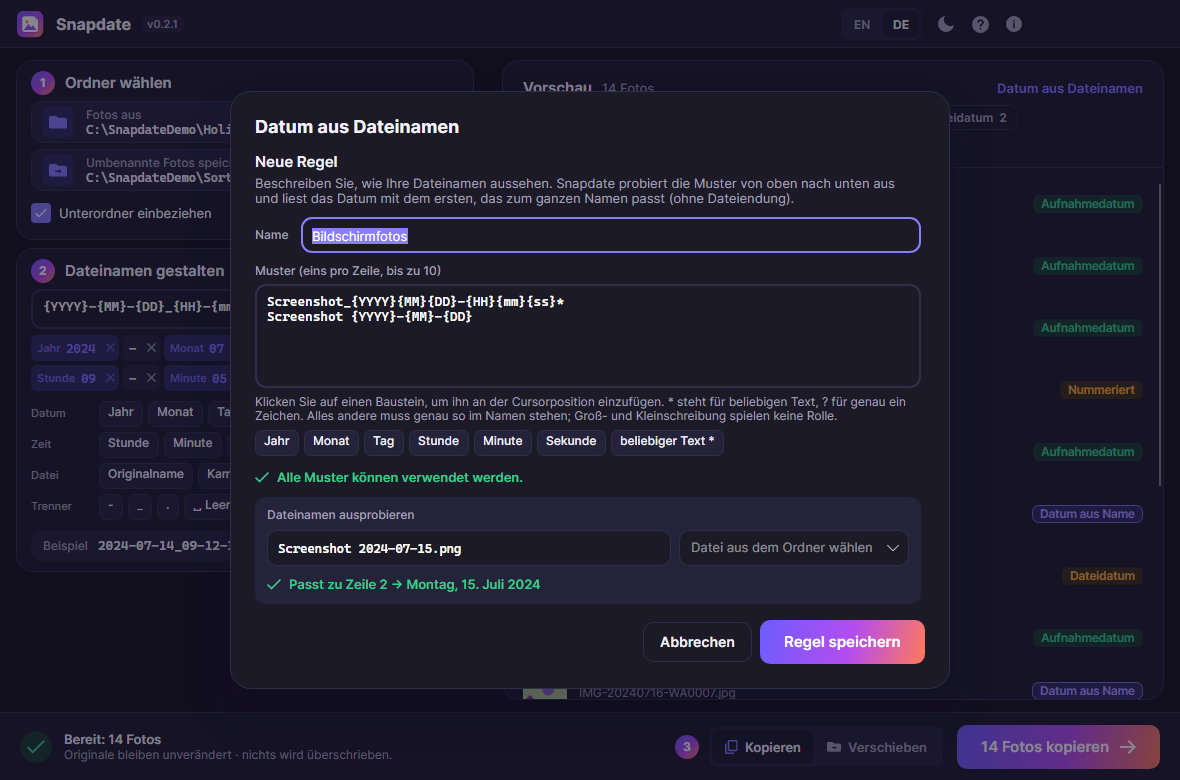
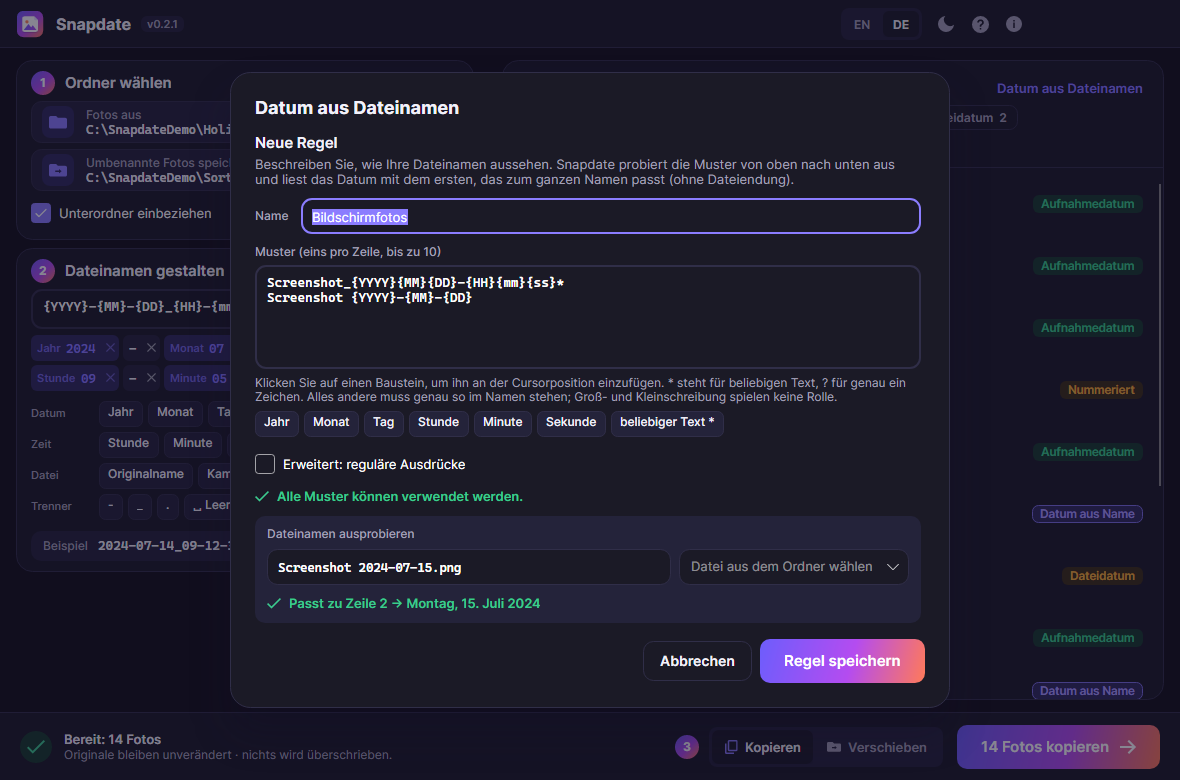
docs(rules): document the regular-expression mode and add its screenshot
ADR 0007 now describes the implemented checks (order, error kinds, yy
allowed, group dependencies, ASCII digits) instead of "kept but
inactive". security.md gets a short note on file-name rules, DESIGN.md
5.8 the editor's check box, CHANGELOG the user-facing entry. The rule
editor screenshots (18) are regenerated and a regex-mode screenshot
(19-date-rule-regex, EN/DE, light/dark) is added for the user guides.

Refs #21

diff --git a/tools/Snapdate.AssetGen/ScreenshotRenderer.cs b/tools/Snapdate.AssetGen/ScreenshotRenderer.cs
@@ -219,6 +219,19 @@ internal static class ScreenshotRenderer
                         editor.Name = folder == "de" ? "Bildschirmfotos" : "Screenshots";
                         editor.PatternsText = "Screenshot_{YYYY}{MM}{DD}-{HH}{mm}{ss}*" + Environment.NewLine + "Screenshot {YYYY}-{MM}-{DD}";
                     });
+                    Shoot(dir, $"19-date-rule-regex-{suffix}", ci, thumbnails, vm =>
+                    {
+                        // The same rule in "Advanced: regular expressions" mode: one expression for both name styles.
+                        ArrangePreview(vm);
+                        vm.OpenDateRulesCommand.Execute(null);
+                        var rules = vm.RulesDialog!;
+                        rules.SelectedSample = rules.SampleNames.First(n => n.StartsWith("Screenshot", StringComparison.Ordinal));
+                        rules.AddRuleCommand.Execute(null);
+                        var editor = rules.Editor!;
+                        editor.Name = folder == "de" ? "Bildschirmfotos" : "Screenshots";
+                        editor.IsRegex = true;
+                        editor.PatternsText = @"Screenshot[ _](?<year>\d{4})-?(?<month>\d{2})-?(?<day>\d{2}).*";
+                    });
                 }
 
                 Avalonia.Application.Current!.RequestedThemeVariant = ThemeVariant.Light;

diff --git a/docs/adr/0007-dates-from-file-names.md b/docs/adr/0007-dates-from-file-names.md
@@ -58,8 +58,9 @@ placeholders the user already knows from the file-name builder, for example
   must appear together (neither `{HH}` without `{mm}` nor `{mm}` without
   `{HH}`; error kinds `HourWithoutMinute`, `MinuteWithoutHour`); seconds
   require minutes (`SecondWithoutMinute`); ambiguous neighbours
-  (`AmbiguousNeighbours`, see below); an expression that fails to build
-  (`InvalidExpression`, used by regex mode, see below). A rule with one
+  (`AmbiguousNeighbours`, see below). Regex mode adds `InvalidSyntax`,
+  `UnsupportedConstruct`, `RepetitionTooLarge`, `UnknownGroup` and the
+  fallback `InvalidExpression` (see below). A rule with one
   invalid pattern still uses its valid ones.
 - **Ambiguity rule (runs).** A run is a maximal sequence of placeholders, `?`
   and literal digits 0–9 (it ends at any other literal character, at `*`, and
@@ -96,18 +97,36 @@ placeholders the user already knows from the file-name builder, for example
   current year (whole years are compared, not full dates).
 
 **Advanced mode: regular expression.** A rule can set `"syntax": "regex"`
-instead of the default `"pattern"`. The user's expression is wrapped as
-`^(?:…)$`, limited to 300 characters, compiled with the same options, and
-must use the named groups `year`, `month`, `day` (required) and `hour`,
-`minute`, `second` (optional); no other group names. Counted repetition is
-capped (`{n}` / `{n,m}` with n, m ≤ 100). **Any failure while building the
-regex** — constructs that `NonBacktracking` does not support
-(backreferences, lookarounds, atomic groups; `NotSupportedException`), syntax
-errors (`ArgumentException`), a too-large repetition or anything else — becomes
-a plain-language validation error (`InvalidExpression`), never a crash. The 50 ms timeout applies to
-matching, as for patterns. Group values go through the
-same ASCII-digit, calendar and plausibility checks. Implemented in #21 in the
-same release (v0.3.0); until then such rules are kept but inactive.
+instead of the default `"pattern"` (in the editor: the "Advanced: regular
+expressions" check box, off by default; switching keeps the text and checks it
+again). Each line is one expression (`DateExpression`), checked in this order:
+1. Not empty, at most **300 characters**, no control characters (a line break
+   could end a `(?x)` comment inside the wrapper).
+2. **Counted repetition capped:** every `{n}`, `{n,}`, `{n,m}` with n, m ≤ 100
+   (`RepetitionTooLarge`). Escaped characters are skipped; braces anywhere else
+   (also in character classes) are checked, which may reject a harmless literal
+   but never misses a quantifier.
+3. **Compiled on its own** with the same options as patterns
+   (`NonBacktracking | IgnoreCase | CultureInvariant | ExplicitCapture`, 50 ms
+   match timeout), so it must be complete and cannot close the wrapper from
+   inside (`a)|(?:b` is rejected). `RegexParseException` → `InvalidSyntax` with
+   the position; `NotSupportedException` — constructs `NonBacktracking` cannot
+   run (backreferences, lookarounds, atomic groups, conditionals, `\G`,
+   balancing groups) or an automaton above the engine's size limit (e.g. nested
+   repetitions such as `((a{100}){100}){100}`) → `UnsupportedConstruct`; any
+   other exception → `InvalidExpression`. Never a crash.
+4. **Wrapped as `^(?:…)$`** and compiled again; this is the regex that runs.
+5. **Group names:** only `year`, `yy` (two-digit year, same 19YY/20YY pivot as
+   `{YY}`), `month`, `day`, `hour`, `minute`, `second`, case-sensitive
+   (`UnknownGroup`); numbered groups are ignored. Required: `year` or `yy`,
+   `month`, `day`; the same time dependencies as patterns (hour ⇔ minute,
+   second ⇒ minute). A name may appear in several alternatives
+   (`(?<year>…)-…|…(?<year>…)`).
+
+Matching is shared with patterns: names longer than 260 characters are not
+matched, a timeout counts as no match, and group values must be 1–4 **ASCII**
+digits (`\d` may match other scripts' digits; those never give a date), then
+pass the calendar and plausibility checks. Implemented in #21 (v0.3.0).
 
 ### Date priority and conflicts
 1. **Camera EXIF** (metadata from a file with a camera model) always wins, as

diff --git a/CHANGELOG.md b/CHANGELOG.md
@@ -11,6 +11,7 @@ and this project adheres to [Semantic Versioning](https://semver.org/spec/v2.0.0
 - 📅 Dates from file names: WhatsApp pictures (Android `IMG-20240714-WA0001.jpg`, Desktop/Web `WhatsApp Image 2024-07-14 at 15.32.08.jpeg`) have no date stored inside, but the name has one. Snapdate now reads it and uses it instead of the file date (which is only the download day). Such photos get a **Date from name** label and their own filter. A date from the camera always wins; when a date written by an app and the name disagree, the name is used and the photo is marked **Dates differ** — the tooltip shows both dates.
 - 🗂 **Dates from file names** dialog (link above the preview list): see every rule with its patterns and whether it is built in or your own, switch rules on and off, duplicate a built-in rule into your own copy and delete your own rules. Type or pick a file name to try it: Snapdate shows which rule reads which date, or that no rule fits. Changes are saved at once and the preview is updated when you close the dialog. Works with the keyboard alone and with screen readers.
 - ✏ Make your own rules: **Add rule** and **Edit** open a small editor with a name and one pattern per line (up to 10), such as `IMG_{YYYY}{MM}{DD}_*`. Click blocks (Year, Month, Day, Hour, Minute, Second, any text `*`) to insert them at the cursor. Every line that cannot be used is explained in plain words, and a tester shows at once which line fits a file name and which date it reads — or that it fits, but `2024-13-45` is not a date. Your own rules are tried before the built-in ones. When no rule reads a name such as `IMG_20240714_153208.jpg`, **Create a rule from this name** starts a rule for you.
+- 🧪 For advanced users: tick **Advanced: regular expressions** in the rule editor to write a rule as a regular expression with named groups `year` (or `yy`), `month`, `day` and optionally `hour`, `minute`, `second`, e.g. `^IMG-(?<year>\d{4})(?<month>\d{2})(?<day>\d{2})-WA\d+$`. The expression must fit the whole name. For safety, expressions are limited to 300 characters and small repetitions and always run in a mode that cannot hang; back-references and look-arounds are not available. Problems are explained in plain words, and the tester works the same way.
 
 ## [0.2.1] - 2026-11-17
 

diff --git a/DESIGN.md b/DESIGN.md
@@ -218,7 +218,14 @@ is never taller than the window; only the rule list scrolls). From top to bottom
   "My rule"/"Meine Regel"; saved trimmed, empty → that default; duplicate names are allowed); the label "Patterns (one
   per line, up to 10)" and `TextBox.rulePatterns` (mono 13, 104 px high, multi-line, Enter = new line, Tab leaves;
   `danger` border while something is wrong) with a muted hint; `Button.chip` blocks Year, Month, Day, Hour, Minute,
-  Second ({YYYY} {MM} {DD} {HH} {mm} {ss}) and "any text *" that insert at the caret; then the validation (Polite live
+  Second ({YYYY} {MM} {DD} {HH} {mm} {ss}) and "any text *" that insert at the caret; a `CheckBox` "Advanced: regular
+  expressions"/"Erweitert: reguläre Ausdrücke" (off by default; tooltip and help text: the text is kept when switching).
+  When ticked, the label reads "Regular expressions (one per line, up to 10)", the blocks are hidden and the hint explains
+  the named groups (year or yy, month, day; hour, minute, second optional), followed by the example
+  `^IMG-(?<year>\d{4})(?<month>\d{2})(?<day>\d{2})-WA\d+$` (mono, muted 12; automation name "Example: …"). Switching keeps
+  the text and validates it again in the other syntax; a switch counts as a change (Save, Discard question). Messages in
+  regex mode name groups (`(?<month>…)`) instead of blocks and explain syntax errors with a character position,
+  unsupported constructs (back-references, look-arounds, atomic groups, conditions) and repetitions above 100; then the validation (Polite live
   region): one `Grid.ruleProblem` per problem (`danger` warning icon + 12 px text "Line 2: …", one plain-language message
   per error kind, including how to fix ambiguous digits), or the check icon + `success` "All patterns can be used.";
   then its own tester (`Border.tester`, prefilled from the dialog tester, same picker), trying only this rule: ✓

diff --git a/docs/security.md b/docs/security.md
@@ -48,6 +48,13 @@ To report a vulnerability, see [SECURITY.md](../SECURITY.md).
 - Scanning skips hidden/system files and **does not follow symbolic links or
   junctions**.
 - Implausible dates (before 1900 or in the future) are ignored.
+- Dates from file names: file names and the user's own rules are untrusted. Every rule — token pattern or
+  user-written regular expression ("Advanced" mode) — runs as a `NonBacktracking` regex (linear time) with a
+  50 ms timeout on names of at most 260 characters. Regular expressions are limited to 300 characters and
+  repetitions of at most 100, must compile on their own before being wrapped as `^(?:…)$`, and every build
+  error (including unsupported constructs such as back-references) becomes a validation message, never a
+  crash. Captured values must be ASCII digits and pass the calendar and plausibility checks
+  ([ADR 0007](adr/0007-dates-from-file-names.md)).
 - The settings file is size-limited and parsed with source-generated
   `System.Text.Json`; corrupt settings fall back to defaults.
 
